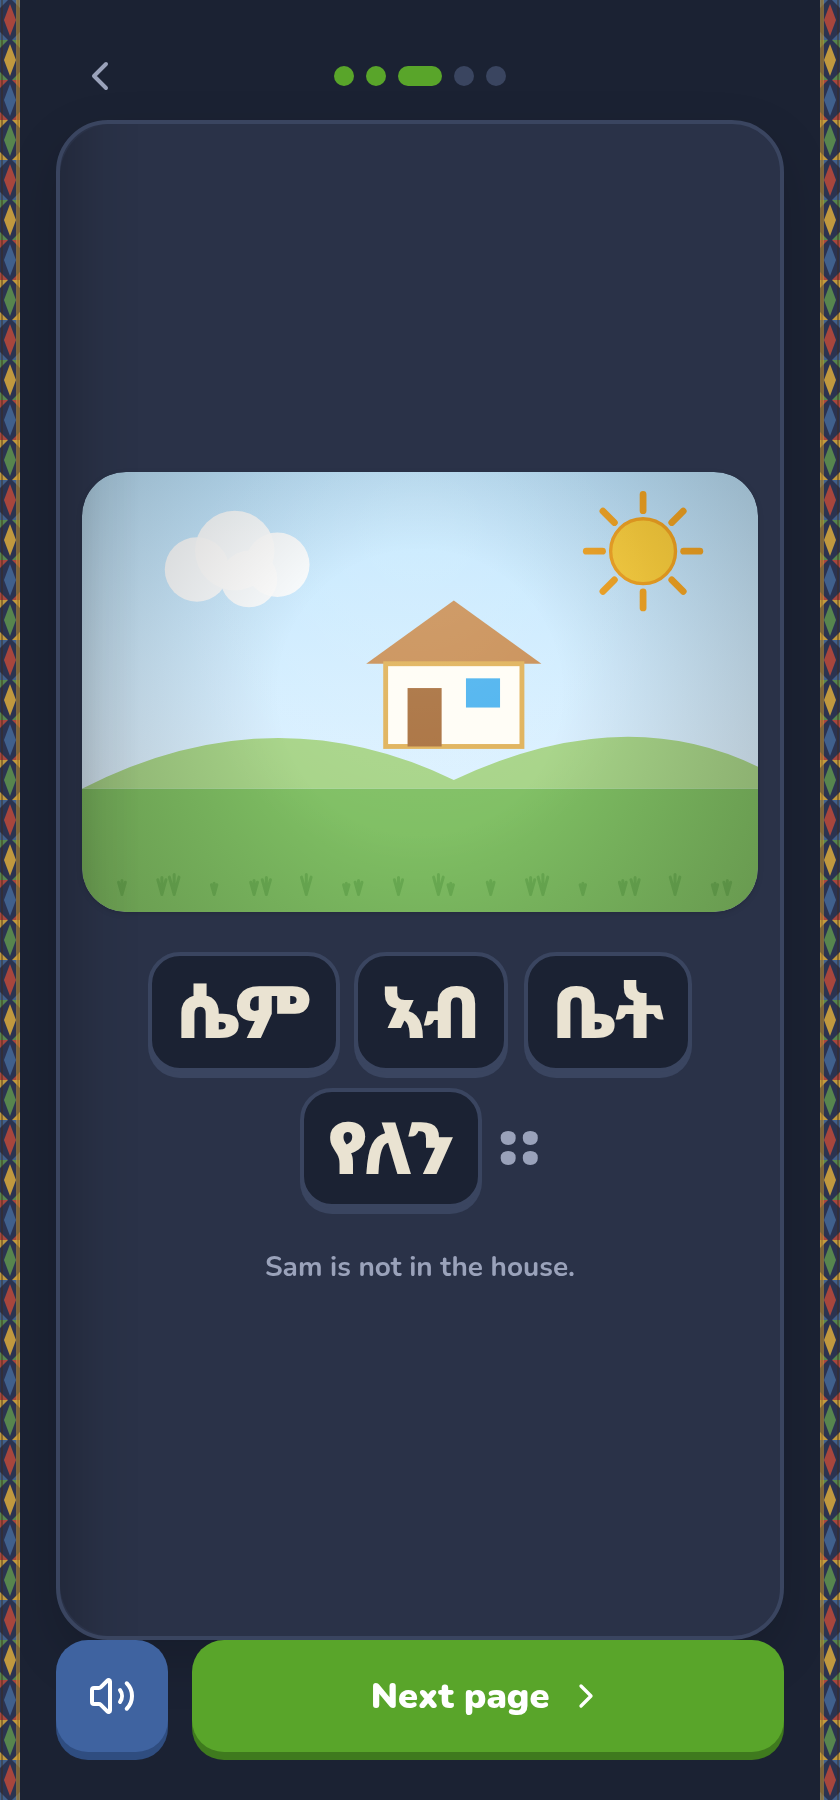
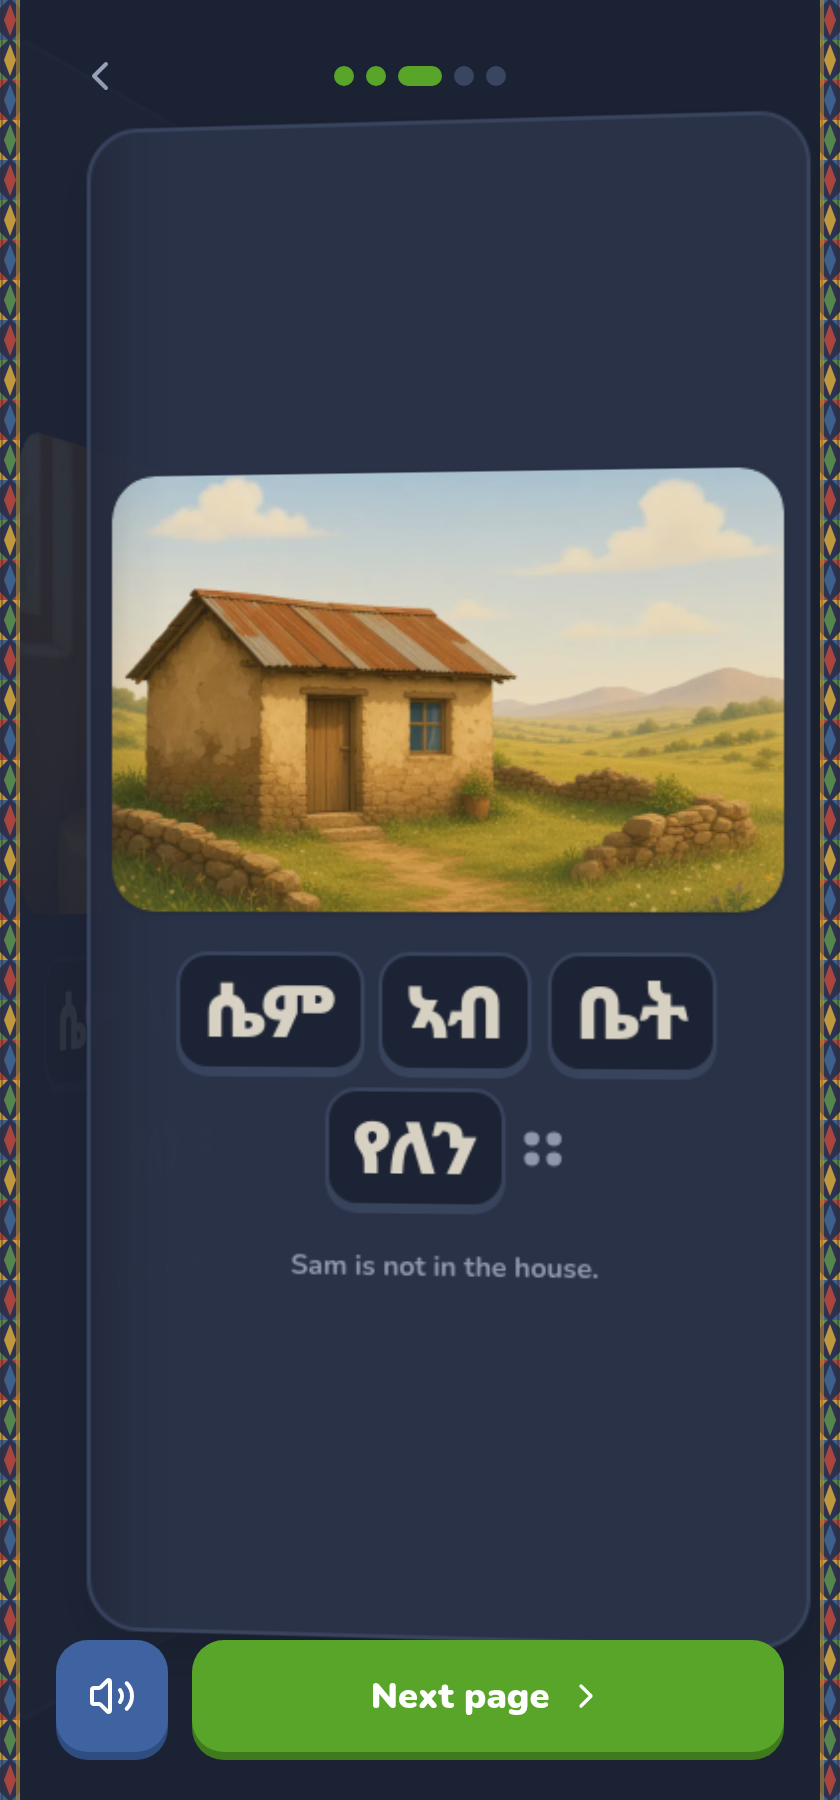
Paint Story Path pages in the Meet picture-book style.
Each of the five stories now draws a soft-realism scene from public/art/stories. Tigrinya lines are unchanged. Biblical Story Time still uses the code-drawn stamps.

Changed region(s): [[0.0619, 0.0622, 0.9905, 0.9022], [0.2167, 0.9022, 0.2476, 0.9333]]

diff --git a/src/data/schoolPathGr1Stories.js b/src/data/schoolPathGr1Stories.js
@@ -15,17 +15,21 @@ const KID = { k: 'person', skin: '#c98a5a', hair: '#241812', cloth: '#3f8f7a', b
 const MOM = { k: 'person', robe: true, head: 'scarf', headColor: '#c45a6a', skin: '#c98a5a', cloth: '#d9642e' }
 const GRANDMA = { k: 'person', robe: true, head: 'scarf', headColor: '#6d84c9', skin: '#c98a5a', cloth: '#8a6a9a' }
 
-/* Picture-book panels for StoryScene. Hints in the JSON stay the art brief;
-   these stamps are the code-drawn stand-in already used by Story Time. */
+/* Picture-book panels. scene.src is the Meet-style painting. The stamp
+   scene stays as the fallback if that file does not load. */
+function painted(id, n, scene) {
+  return { ...scene, src: `/art/stories/${id}-${n}.webp` }
+}
+
 const ART = {
   'where-is-sam': {
     pics: ['🧒', '☕', '🏠', '🛏', '🐶'],
     scenes: [
-      { bg: 'indoor', items: [{ ...KID, x: 0.42, foot: 0.78, s: 0.34 }] },
-      { bg: 'kitchen', items: [{ k: 'pot', x: 0.55, y: 0.48, s: 0.28 }] },
-      { bg: 'day', items: [{ k: 'house', x: 0.55, y: 0.48, s: 0.36 }] },
-      { bg: 'indoor', items: [{ k: 'zzz', x: 0.62, y: 0.36, s: 0.16 }] },
-      { bg: 'indoor', items: [{ ...KID, x: 0.36, foot: 0.78, s: 0.32 }, { k: 'dog', x: 0.68, y: 0.58, s: 0.28 }] },
+      painted('where-is-sam', 1, { bg: 'indoor', items: [{ ...KID, x: 0.42, foot: 0.78, s: 0.34 }] }),
+      painted('where-is-sam', 2, { bg: 'kitchen', items: [{ k: 'pot', x: 0.55, y: 0.48, s: 0.28 }] }),
+      painted('where-is-sam', 3, { bg: 'day', items: [{ k: 'house', x: 0.55, y: 0.48, s: 0.36 }] }),
+      painted('where-is-sam', 4, { bg: 'indoor', items: [{ k: 'zzz', x: 0.62, y: 0.36, s: 0.16 }] }),
+      painted('where-is-sam', 5, { bg: 'indoor', items: [{ ...KID, x: 0.36, foot: 0.78, s: 0.32 }, { k: 'dog', x: 0.68, y: 0.58, s: 0.28 }] }),
     ],
     question: {
       en: 'Who is with Sam at the end?',
@@ -35,14 +39,14 @@ const ART = {
   'walk-to-school': {
     pics: ['🚶', '🐶', '🐦', '🐫', '🐔', '🐐', '🍈', '🏫'],
     scenes: [
-      { bg: 'field', items: [{ ...KID, x: 0.4, foot: 0.76, s: 0.32 }] },
-      { bg: 'field', items: [{ k: 'dog', x: 0.55, y: 0.58, s: 0.3 }] },
-      { bg: 'field', items: [{ k: 'bird', x: 0.62, y: 0.32, s: 0.2 }] },
-      { bg: 'field', items: [{ k: '🐫', x: 0.55, y: 0.52, s: 0.34 }] },
-      { bg: 'field', items: [{ k: '🐔', x: 0.55, y: 0.58, s: 0.28 }] },
-      { bg: 'field', items: [{ k: '🐐', x: 0.55, y: 0.56, s: 0.3 }] },
-      { bg: 'field', items: [{ ...KID, x: 0.34, foot: 0.76, s: 0.3 }, { k: '🍈', x: 0.66, y: 0.55, s: 0.22 }] },
-      { bg: 'day', items: [{ k: 'house', x: 0.58, y: 0.48, s: 0.36 }, { ...KID, x: 0.28, foot: 0.78, s: 0.28 }] },
+      painted('walk-to-school', 1, { bg: 'field', items: [{ ...KID, x: 0.4, foot: 0.76, s: 0.32 }] }),
+      painted('walk-to-school', 2, { bg: 'field', items: [{ k: 'dog', x: 0.55, y: 0.58, s: 0.3 }] }),
+      painted('walk-to-school', 3, { bg: 'field', items: [{ k: 'bird', x: 0.62, y: 0.32, s: 0.2 }] }),
+      painted('walk-to-school', 4, { bg: 'field', items: [{ k: '🐫', x: 0.55, y: 0.52, s: 0.34 }] }),
+      painted('walk-to-school', 5, { bg: 'field', items: [{ k: '🐔', x: 0.55, y: 0.58, s: 0.28 }] }),
+      painted('walk-to-school', 6, { bg: 'field', items: [{ k: '🐐', x: 0.55, y: 0.56, s: 0.3 }] }),
+      painted('walk-to-school', 7, { bg: 'field', items: [{ ...KID, x: 0.34, foot: 0.76, s: 0.3 }, { k: '🍈', x: 0.66, y: 0.55, s: 0.22 }] }),
+      painted('walk-to-school', 8, { bg: 'day', items: [{ k: 'house', x: 0.58, y: 0.48, s: 0.36 }, { ...KID, x: 0.28, foot: 0.78, s: 0.28 }] }),
     ],
     question: {
       en: 'Where did the child arrive?',
@@ -52,11 +56,11 @@ const ART = {
   'coffee-with-grandma': {
     pics: ['☕', '🍵', '🥛', '👵', '🧒'],
     scenes: [
-      { bg: 'kitchen', items: [{ k: 'pot', x: 0.52, y: 0.48, s: 0.3 }] },
-      { bg: 'kitchen', items: [{ k: '☕', x: 0.52, y: 0.46, s: 0.26 }] },
-      { bg: 'kitchen', items: [{ k: 'milk', x: 0.52, y: 0.48, s: 0.26 }] },
-      { bg: 'kitchen', items: [{ ...GRANDMA, x: 0.46, foot: 0.8, s: 0.36 }, { k: '☕', x: 0.72, y: 0.5, s: 0.18 }] },
-      { bg: 'kitchen', items: [{ ...KID, x: 0.38, foot: 0.8, s: 0.3 }, { k: 'milk', x: 0.66, y: 0.52, s: 0.2 }] },
+      painted('coffee-with-grandma', 1, { bg: 'kitchen', items: [{ k: 'pot', x: 0.52, y: 0.48, s: 0.3 }] }),
+      painted('coffee-with-grandma', 2, { bg: 'kitchen', items: [{ k: '☕', x: 0.52, y: 0.46, s: 0.26 }] }),
+      painted('coffee-with-grandma', 3, { bg: 'kitchen', items: [{ k: 'milk', x: 0.52, y: 0.48, s: 0.26 }] }),
+      painted('coffee-with-grandma', 4, { bg: 'kitchen', items: [{ ...GRANDMA, x: 0.46, foot: 0.8, s: 0.36 }, { k: '☕', x: 0.72, y: 0.5, s: 0.18 }] }),
+      painted('coffee-with-grandma', 5, { bg: 'kitchen', items: [{ ...KID, x: 0.38, foot: 0.8, s: 0.3 }, { k: 'milk', x: 0.66, y: 0.52, s: 0.2 }] }),
     ],
     question: {
       en: 'What did grandma drink from?',
@@ -66,11 +70,11 @@ const ART = {
   'baby-wont-sleep': {
     pics: ['👶', '🎵', '🤗', '🥛', '😴'],
     scenes: [
-      { bg: 'night', items: [{ ...KID, x: 0.5, foot: 0.78, s: 0.3 }] },
-      { bg: 'indoor', items: [{ ...MOM, x: 0.42, foot: 0.78, s: 0.36 }, { k: 'note', x: 0.7, y: 0.32, s: 0.14 }] },
-      { bg: 'indoor', items: [{ ...MOM, x: 0.42, foot: 0.78, s: 0.36 }, { k: 'heart', x: 0.68, y: 0.36, s: 0.12 }] },
-      { bg: 'indoor', items: [{ ...KID, x: 0.36, foot: 0.8, s: 0.28 }, { k: 'milk', x: 0.66, y: 0.52, s: 0.22 }] },
-      { bg: 'indoor', items: [{ ...KID, x: 0.46, foot: 0.8, s: 0.28 }, { k: 'zzz', x: 0.68, y: 0.32, s: 0.16 }] },
+      painted('baby-wont-sleep', 1, { bg: 'night', items: [{ ...KID, x: 0.5, foot: 0.78, s: 0.3 }] }),
+      painted('baby-wont-sleep', 2, { bg: 'indoor', items: [{ ...MOM, x: 0.42, foot: 0.78, s: 0.36 }, { k: 'note', x: 0.7, y: 0.32, s: 0.14 }] }),
+      painted('baby-wont-sleep', 3, { bg: 'indoor', items: [{ ...MOM, x: 0.42, foot: 0.78, s: 0.36 }, { k: 'heart', x: 0.68, y: 0.36, s: 0.12 }] }),
+      painted('baby-wont-sleep', 4, { bg: 'indoor', items: [{ ...KID, x: 0.36, foot: 0.8, s: 0.28 }, { k: 'milk', x: 0.66, y: 0.52, s: 0.22 }] }),
+      painted('baby-wont-sleep', 5, { bg: 'indoor', items: [{ ...KID, x: 0.46, foot: 0.8, s: 0.28 }, { k: 'zzz', x: 0.68, y: 0.32, s: 0.16 }] }),
     ],
     question: {
       en: 'What did the baby drink?',
@@ -80,14 +84,14 @@ const ART = {
   'sun-all-week': {
     pics: ['☀', '☀', '☀', '☀', '☀', '🧺', '☀', '☀'],
     scenes: [
-      { bg: 'day', items: [] },
-      { bg: 'day', items: [{ k: 'bird', x: 0.3, y: 0.34, s: 0.14 }] },
-      { bg: 'field', items: [] },
-      { bg: 'day', items: [{ k: 'house', x: 0.72, y: 0.5, s: 0.28 }] },
-      { bg: 'field', items: [{ k: '🐑', x: 0.7, y: 0.62, s: 0.22 }] },
-      { bg: 'field', items: [{ k: 'basket', x: 0.62, y: 0.58, s: 0.24 }, { ...KID, x: 0.32, foot: 0.78, s: 0.28 }] },
-      { bg: 'day', items: [{ ...KID, x: 0.4, foot: 0.78, s: 0.28 }, { ...MOM, x: 0.66, foot: 0.76, s: 0.32 }] },
-      { bg: 'day', items: [{ k: 'rays', x: 0.5, y: 0.28, s: 0.22 }] },
+      painted('sun-all-week', 1, { bg: 'day', items: [] }),
+      painted('sun-all-week', 2, { bg: 'day', items: [{ k: 'bird', x: 0.3, y: 0.34, s: 0.14 }] }),
+      painted('sun-all-week', 3, { bg: 'field', items: [] }),
+      painted('sun-all-week', 4, { bg: 'day', items: [{ k: 'house', x: 0.72, y: 0.5, s: 0.28 }] }),
+      painted('sun-all-week', 5, { bg: 'field', items: [{ k: '🐑', x: 0.7, y: 0.62, s: 0.22 }] }),
+      painted('sun-all-week', 6, { bg: 'field', items: [{ k: 'basket', x: 0.62, y: 0.58, s: 0.24 }, { ...KID, x: 0.32, foot: 0.78, s: 0.28 }] }),
+      painted('sun-all-week', 7, { bg: 'day', items: [{ ...KID, x: 0.4, foot: 0.78, s: 0.28 }, { ...MOM, x: 0.66, foot: 0.76, s: 0.32 }] }),
+      painted('sun-all-week', 8, { bg: 'day', items: [{ k: 'rays', x: 0.5, y: 0.28, s: 0.22 }] }),
     ],
     question: {
       en: 'What shone all week?',

diff --git a/src/components/StoryScene.jsx b/src/components/StoryScene.jsx
@@ -9,10 +9,11 @@
    where one exists (cat, cow, lemon, honey, ...) and add the people/animals a
    storybook needs (a child, a lion, a leopard, a book, a heart).
 
-   Flat, chunky, offline, no image assets - the same code-drawn style as the
-   rest of eGeez. jsdom has no canvas, so getContext is guarded: no scene in
-   tests, never a crash. Falls back to the plain emoji when a page has no
-   scene, so the contract never breaks.
+   Biblical Story Time stays on these stamps. School Path stories pass
+   scene.src, a Meet-style painting in public/art/stories, and this canvas
+   draws that bitmap into the same rounded page window. If the file is
+   missing, the stamps still paint. jsdom has no canvas, so getContext is
+   guarded: no scene in tests, never a crash.
    ========================================================================== */
 import { useEffect, useRef } from 'react'
 import { stampPicture } from './Pictures'
@@ -1096,11 +1097,35 @@ export function paintScene(g, W, H, scene) {
  * A full illustrated page panel. Renders the `scene` if the page has one; the
  * caller keeps a plain-emoji fallback for pages/scenes without art.
  */
+function clipPage(g, W, H, r) {
+  g.beginPath()
+  g.moveTo(r, 0)
+  g.arcTo(W, 0, W, H, r)
+  g.arcTo(W, H, 0, H, r)
+  g.arcTo(0, H, 0, 0, r)
+  g.arcTo(0, 0, W, 0, r)
+  g.closePath()
+  g.clip()
+}
+
+/** Cover-fit a painting into the page window. */
+function drawCover(g, img, W, H) {
+  const iw = img.naturalWidth || img.width
+  const ih = img.naturalHeight || img.height
+  if (!iw || !ih) return
+  const ir = iw / ih
+  const cr = W / H
+  const dw = ir > cr ? H * ir : W
+  const dh = ir > cr ? H : W / ir
+  g.drawImage(img, (W - dw) / 2, (H - dh) / 2, dw, dh)
+}
+
 export default function StoryScene({ scene, width = 320, height = 208, className = '', rounded = 22 }) {
   const ref = useRef(null)
   useEffect(() => {
     const c = ref.current
     if (!c) return
+    let cancelled = false
     // Size the backing store from the display size at a capped DPR, so a cheap
     // phone paints ~display pixels, not a fixed 800x520 over-sample.
     const dpr = Math.min(2, (typeof window !== 'undefined' && window.devicePixelRatio) || 1)
@@ -1110,20 +1135,37 @@ export default function StoryScene({ scene, width = 320, height = 208, className
     c.height = Hh
     const g = c.getContext('2d')
     if (!g) return
+    const r = (rounded / width) * W
+    const paintStamps = () => {
+      if (cancelled || ref.current !== c) return
+      g.clearRect(0, 0, W, Hh)
+      g.save()
+      clipPage(g, W, Hh, r)
+      paintScene(g, W, Hh, scene)
+      g.restore()
+    }
+    if (!scene?.src || typeof Image === 'undefined') {
+      paintStamps()
+      return undefined
+    }
     g.clearRect(0, 0, W, Hh)
     g.save()
-    // clip to rounded rect so the scene sits in a page-window
-    const r = (rounded / width) * W
-    g.beginPath()
-    g.moveTo(r, 0)
-    g.arcTo(W, 0, W, Hh, r)
-    g.arcTo(W, Hh, 0, Hh, r)
-    g.arcTo(0, Hh, 0, 0, r)
-    g.arcTo(0, 0, W, 0, r)
-    g.closePath()
-    g.clip()
-    paintScene(g, W, Hh, scene)
+    clipPage(g, W, Hh, r)
+    g.fillStyle = '#efe4cf'
+    g.fillRect(0, 0, W, Hh)
     g.restore()
+    const img = new Image()
+    img.onload = () => {
+      if (cancelled || ref.current !== c) return
+      g.clearRect(0, 0, W, Hh)
+      g.save()
+      clipPage(g, W, Hh, r)
+      drawCover(g, img, W, Hh)
+      g.restore()
+    }
+    img.onerror = paintStamps
+    img.src = scene.src
+    return () => { cancelled = true }
   }, [scene, width, height, rounded])
   return <canvas ref={ref} className={className} style={{ width, height, borderRadius: rounded }} aria-hidden="true" />
 }

diff --git a/src/data/schoolPathGr1Stories.test.js b/src/data/schoolPathGr1Stories.test.js
@@ -1,4 +1,6 @@
 import { describe, it, expect } from 'vitest'
+import { existsSync } from 'node:fs'
+import { resolve } from 'node:path'
 import { ETHIOPIC_SCRIPT } from '../script/ethiopic'
 import { STORIES, storyLibrary, storyUnlocked, storyWords } from '../platform/stories'
 import { NodeKind, buildJourney } from '../journey'
@@ -138,6 +140,16 @@ describe('school path story pack', () => {
     const am = storyLibrary([], undefined, 'am')
     expect(am.some((s) => IDS.includes(s.id))).toBe(false)
     expect(am.length).toBe(STORIES.length)
+  })
+
+  it('gives every School Path page a Meet-style painting on disk', () => {
+    for (const entry of schoolPathStoryTimeEntries()) {
+      entry.pages.forEach((page, i) => {
+        const src = `/art/stories/${entry.id}-${i + 1}.webp`
+        expect(page.scene.src, `${entry.id} ${i}`).toBe(src)
+        expect(existsSync(resolve('public', src.slice(1))), src).toBe(true)
+      })
+    }
   })
 
   it('puts a story node on each Tigrinya chapter and leaves Amharic stories in place', () => {

diff --git a/vite.config.js b/vite.config.js
@@ -82,14 +82,14 @@ export default defineConfig({
         // precaching files that may not exist yet.
         runtimeCaching: [
           {
-            // School Path Meet paintings and the Letter Runner cast.
+            // School Path Meet paintings, Story Path scenes, and the Letter Runner cast.
             // Cached after the first view so a later offline visit still
             // has the picture, without putting the whole set in the install.
-            urlPattern: /\/art\/(meet|runner)\/.*\.webp$/,
+            urlPattern: /\/art\/(meet|runner|stories)\/.*\.webp$/,
             handler: 'CacheFirst',
             options: {
               cacheName: 'meet-heroes-v1',
-              expiration: { maxEntries: 40, maxAgeSeconds: 60 * 60 * 24 * 60 },
+              expiration: { maxEntries: 80, maxAgeSeconds: 60 * 60 * 24 * 60 },
             },
           },
           {

diff --git a/FINDINGS.md b/FINDINGS.md
@@ -25,8 +25,9 @@ The MoE Alphabet book opens on በ / ሰ / ሸ.
   stories (Where Is Sam?, Walk to School, Coffee With Grandma, Baby Won't
   Sleep, Sun All Week). Each has an original Tigrinya title, an unlock
   unit, pages, and a refrain. Lines recycle Meet and blend words.
-- Wiring: Tigrinya Story Time lists those five books and draws them with
-  the existing StoryScene stamps. A story node sits on each School Path
+- Wiring: Tigrinya Story Time lists those five books. Each page paints a
+  Meet-style scene from `public/art/stories` (the stamp scene is only the
+  fallback). A story node sits on each School Path
   chapter. Biblical Amharic Story Time is unchanged.
 - Tests cover the new alphabet fields and the story schema. Docs:
   `docs/school-path.md`.

diff --git a/docs/school-path.md b/docs/school-path.md
@@ -96,7 +96,8 @@ Each story names `unlockAfterUnitId`. It opens in Story Time once every
 family through that unit is learned. Tigrinya Story Time shows these five
 books. The biblical Story Time tracks stay on the Amharic pack and are not
 rewritten. A story node sits on each School Path chapter, the same way
-Amharic already does. Pages draw with the existing StoryScene stamps.
+Amharic already does. Each page paints a Meet-style scene from
+`public/art/stories`. Biblical pages keep the code-drawn StoryScene stamps.
 Family Voice clips for these lines are not recorded yet.
 
 ## P1 follow-ups
